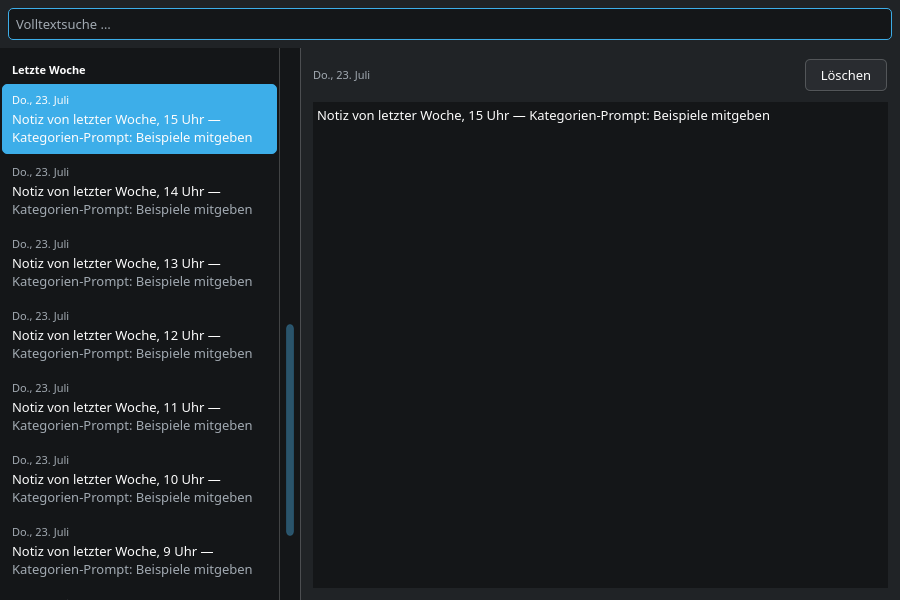
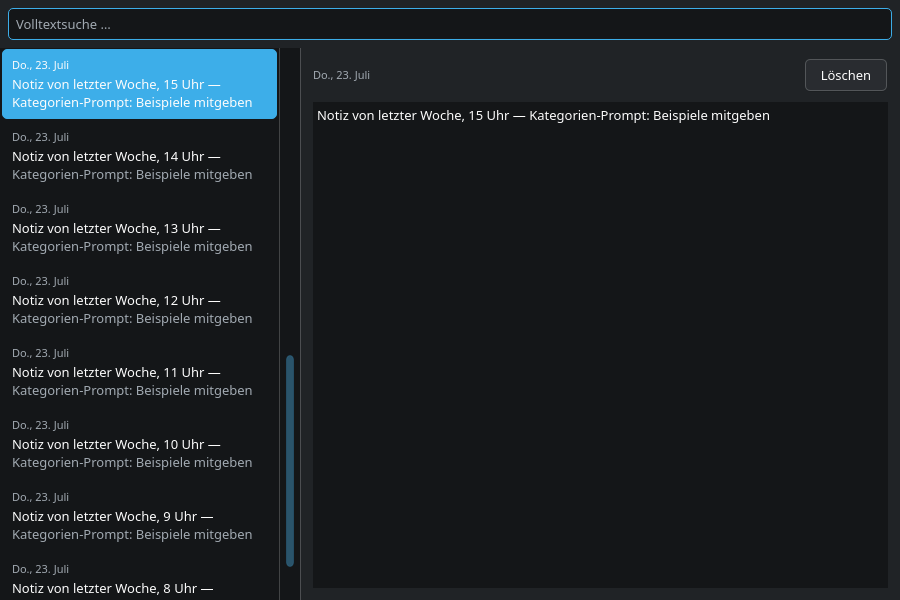
Posteingang: Kopf nur beim Gruppenwechsel holen (#46)
Der Nachbefund des UI-Reviews. Das Vorscrollen griff bei jedem
Auswahlwechsel, nicht nur beim Übergang zwischen Gruppen — obwohl AK 7 und
Wireframe 3b Fall 4 beide „springt die Auswahl über eine Gruppengrenze"
sagen. Wer sich einen Übergang erscrollt hatte und die Pfeiltaste drückte,
dem sprang das Bild um 70 Prozent der Listenhöhe nach oben, entgegen der
Bedienrichtung, und der Übergang war weg.

Jetzt wird verglichen, ob die neue Auswahl in einer anderen Gruppe steht als
die vorige; die vorige liefert currentChanged mit, showNote nimmt sie
entgegen. Verglichen werden die Gruppen selbst, nicht die Zeilennummern
ihrer Köpfe: Löschen und Undo bauen die Zeilen neu auf, und der Vergleich
wäre dann zufällig richtig. Beim ersten Setzen — vorige Auswahl ungültig,
also nach Öffnen oder Neuaufbau — wird weiter vorgescrollt.

Die Sichtbarkeit der Auswahl geht ausdrücklich nicht ein. Sie als Bedingung
zu nehmen sieht nach einer Ersparnis aus und hätte die Heilung von vorhin
wieder gebrochen: Dort stand die Zielzeile bereits vollständig im Bild,
während ihr Kopf 35 px darüber lag — genau der Fall, für den geholt wird.
Ein eigener Prüfsatz hält das jetzt fest, damit die nächste Vereinfachung
nicht wieder wie eine Verbesserung aussieht.

Der Test, der den Übergang prüfte, prüfte in Wahrheit keinen: Er wanderte
innerhalb einer Gruppe von der letzten zur ersten Notiz. Er hat jetzt eine
dritte Gruppe und überquert wirklich eine Grenze.
[…]

Changed region(s): [[0.0, 0.06, 0.3111, 0.99], [0.3111, 0.9, 0.3422, 0.96], [0.3111, 0.54, 0.3422, 0.6]]

diff --git a/tests/librarytest.cpp b/tests/librarytest.cpp
@@ -89,6 +89,9 @@ private Q_SLOTS:
     void bringsTheHeadOfTheNewGroupIntoView();
     void bringsTheHeadAlongForANoteInTheMiddleOfASmallGroup();
     void leavesTheHeadOutsideWhereItCannotFitWithTheSelection();
+    void staysPutWhileTheSelectionMovesWithinItsGroup();
+    void bringsTheHeadAlongEvenWhenTheNoteIsInViewAlready();
+    void bringsTheHeadAlongWhenAVisibleNoteOfAnotherGroupIsClicked();
     void bringsBackTheHeadWhenTheDeletionIsUndone();
     void regroupsWhenTheWindowIsActivated();
     void undoesTheDeletionByKeyboard();
@@ -1027,15 +1030,18 @@ void LibraryTest::bringsTheHeadOfTheNewGroupIntoView()
 {
     QFETCH(QSize, windowSize);
 
-    // Two full groups, so that the boundary lies outside the first screenful
-    // and the list has to be scrolled at all.
+    // Three groups, the middle one holding a single note: entering it from
+    // below puts the selection right under its head, which is what lets this
+    // hold at the flattest window too. The outer groups are full, so the
+    // boundary lies outside the first screenful and the list has to scroll.
     for (int hour = 8; hour < 16; ++hour) {
         storedNote(QStringLiteral("von heute, %1 Uhr").arg(hour),
                    QStringLiteral("2026-07-31T%1:00:00").arg(hour, 2, 10, QLatin1Char('0')));
     }
+    storedNote(QStringLiteral("von gestern"), QStringLiteral("2026-07-30T21:48:00"));
     for (int hour = 8; hour < 16; ++hour) {
-        storedNote(QStringLiteral("von gestern, %1 Uhr").arg(hour),
-                   QStringLiteral("2026-07-30T%1:00:00").arg(hour, 2, 10, QLatin1Char('0')));
+        storedNote(QStringLiteral("von letzter Woche, %1 Uhr").arg(hour),
+                   QStringLiteral("2026-07-23T%1:00:00").arg(hour, 2, 10, QLatin1Char('0')));
     }
 
     LibraryWindow window(m_store.get());
@@ -1045,16 +1051,16 @@ void LibraryTest::bringsTheHeadOfTheNewGroupIntoView()
     QVERIFY(QTest::qWaitForWindowExposed(&window));
 
     QListView *list = listOf(window);
-    QCOMPARE(modelOf(list)->noteCount(), 16);
+    QCOMPARE(modelOf(list)->noteCount(), 17);
     // A list that fits into the window would let this pass without scrolling.
     QVERIFY2(list->verticalScrollBar()->maximum() > 0,
              qPrintable(QStringLiteral("Liste passt ganz ins Bild, der Fall tritt nicht ein")));
 
-    // From the end of the list upwards to the first note of "Gestern". Going
-    // up is what puts the entry against the upper edge — and its head just
-    // outside it, unless the window pulls the head along.
-    list->setCurrentIndex(noteRow(list, 15));
-    for (int step = 0; step < 7; ++step) {
+    // From the end of the list upwards across the boundary into "Gestern".
+    // Going up is what puts the entry against the upper edge — and its head
+    // just outside it, unless the window pulls the head along.
+    list->setCurrentIndex(noteRow(list, 16));
+    for (int step = 0; step < 8; ++step) {
         QTest::keyClick(list, Qt::Key_Up);
     }
 
@@ -1086,6 +1092,163 @@ void LibraryTest::bringsTheHeadOfTheNewGroupIntoView()
     const QRect firstHead = list->visualRect(modelOf(list)->index(0));
     QVERIFY2(!list->viewport()->rect().intersects(firstHead),
              qPrintable(QStringLiteral("Kopf „Heute\" klebt bei y=%1").arg(firstHead.y())));
+}
+
+void LibraryTest::staysPutWhileTheSelectionMovesWithinItsGroup()
+{
+    // AK 7 and wireframe 3b, case 4 both say "springt die Auswahl über eine
+    // Gruppengrenze". Within one group nothing is fetched, however far the
+    // head may have scrolled away: the user rolled the list to where he wanted
+    // it, and one press of an arrow key must not throw that away — least of
+    // all against the direction he is pressing in (UI review of 01.08.2026).
+    for (int hour = 8; hour < 16; ++hour) {
+        storedNote(QStringLiteral("von heute, %1 Uhr").arg(hour),
+                   QStringLiteral("2026-07-31T%1:00:00").arg(hour, 2, 10, QLatin1Char('0')));
+    }
+    for (int hour = 8; hour < 16; ++hour) {
+        storedNote(QStringLiteral("von gestern, %1 Uhr").arg(hour),
+                   QStringLiteral("2026-07-30T%1:00:00").arg(hour, 2, 10, QLatin1Char('0')));
+    }
+
+    LibraryWindow window(m_store.get());
+    window.setReferenceTime(at(QStringLiteral("2026-07-31T16:00:00")));
+    window.resize(900, 600);
+    window.showLibrary();
+    QVERIFY(QTest::qWaitForWindowExposed(&window));
+
+    QListView *list = listOf(window);
+
+    // The selection sits in "Gestern", and the user has rolled the list so
+    // that the entry stands at the top with its head above the upper edge.
+    list->setCurrentIndex(noteRow(list, 9));
+    const QModelIndex head = modelOf(list)->index(noteRow(list, 8).row() - 1);
+    QCOMPARE(head.data(Qt::DisplayRole).toString(), QStringLiteral("Gestern"));
+
+    list->verticalScrollBar()->setValue(noteRow(list, 9).row());
+    QVERIFY2(!list->viewport()->rect().intersects(list->visualRect(head)),
+             qPrintable(QStringLiteral("Kopf bei y=%1 — der Fall verlangt ihn außerhalb")
+                            .arg(list->visualRect(head).y())));
+
+    // The next note down is in the picture already …
+    const QModelIndex target = noteRow(list, 10);
+    QVERIFY(list->viewport()->rect().contains(list->visualRect(target)));
+
+    const int rolledTo = list->verticalScrollBar()->value();
+    QTest::keyClick(list, Qt::Key_Down);
+
+    // … so the list does not move, and the crossing the user had scrolled to
+    // stays where he put it.
+    QCOMPARE(list->currentIndex(), target);
+    QCOMPARE(list->verticalScrollBar()->value(), rolledTo);
+    QVERIFY(!list->viewport()->rect().intersects(list->visualRect(head)));
+}
+
+void LibraryTest::bringsTheHeadAlongEvenWhenTheNoteIsInViewAlready()
+{
+    // The trap this guards against: it looks like a saving to fetch the head
+    // only where the list has to be scrolled anyway — and it would undo the
+    // whole heal. A note stands in full view while its head sits just above
+    // the upper edge, and that is exactly the case the head is fetched for
+    // (PO decision of 01.08.2026, taken back after the case was measured).
+    for (int hour = 8; hour < 16; ++hour) {
+        storedNote(QStringLiteral("von heute, %1 Uhr").arg(hour),
+                   QStringLiteral("2026-07-31T%1:00:00").arg(hour, 2, 10, QLatin1Char('0')));
+    }
+    for (int hour = 9; hour < 12; ++hour) {
+        storedNote(QStringLiteral("von gestern, %1 Uhr").arg(hour),
+                   QStringLiteral("2026-07-30T%1:00:00").arg(hour, 2, 10, QLatin1Char('0')));
+    }
+    for (int hour = 8; hour < 16; ++hour) {
+        storedNote(QStringLiteral("von letzter Woche, %1 Uhr").arg(hour),
+                   QStringLiteral("2026-07-23T%1:00:00").arg(hour, 2, 10, QLatin1Char('0')));
+    }
+
+    LibraryWindow window(m_store.get());
+    window.setReferenceTime(at(QStringLiteral("2026-07-31T16:00:00")));
+    window.resize(900, 600);
+    window.showLibrary();
+    QVERIFY(QTest::qWaitForWindowExposed(&window));
+
+    QListView *list = listOf(window);
+
+    // Selection in "Letzte Woche", then the list rolled so that the last note
+    // of "Gestern" stands in the picture while its head does not.
+    list->setCurrentIndex(noteRow(list, 11));
+    const QModelIndex head = modelOf(list)->index(noteRow(list, 8).row() - 1);
+    QCOMPARE(head.data(Qt::DisplayRole).toString(), QStringLiteral("Gestern"));
+
+    list->verticalScrollBar()->setValue(noteRow(list, 8).row());
+    QVERIFY2(!list->viewport()->rect().intersects(list->visualRect(head)),
+             qPrintable(QStringLiteral("Kopf bei y=%1 — der Fall verlangt ihn außerhalb")
+                            .arg(list->visualRect(head).y())));
+
+    // The row the selection is about to reach is already in the picture, whole.
+    const QModelIndex target = noteRow(list, 10);
+    QVERIFY2(list->viewport()->rect().contains(list->visualRect(target)),
+             qPrintable(QStringLiteral("Zielzeile y=%1 — der Fall verlangt sie ganz im Bild")
+                            .arg(list->visualRect(target).y())));
+
+    QTest::keyClick(list, Qt::Key_Up);
+
+    // It crossed a group boundary, so the head is in the picture afterwards —
+    // never mind that nothing had to be scrolled for the note itself.
+    QCOMPARE(list->currentIndex(), target);
+    QVERIFY2(list->viewport()->rect().contains(list->visualRect(head)),
+             qPrintable(QStringLiteral("Kopf bei y=%1, Viewport %2 px hoch")
+                            .arg(list->visualRect(head).y())
+                            .arg(list->viewport()->height())));
+    QVERIFY(list->viewport()->rect().contains(list->visualRect(target)));
+}
+
+void LibraryTest::bringsTheHeadAlongWhenAVisibleNoteOfAnotherGroupIsClicked()
+{
+    // The mouse takes the same road, and it is worth writing down because the
+    // trade was weighed twice: clicking a visible note of another group moves
+    // the list to fetch that group's head. The user loses the place he was
+    // looking at and gains the heading of what he picked — a trade rather than
+    // a loss, since the note he pointed at stays selected and in view (PO
+    // decision of 01.08.2026). Should it grate in daily use, this is the test
+    // that says where the decision was made.
+    for (int hour = 8; hour < 16; ++hour) {
+        storedNote(QStringLiteral("von heute, %1 Uhr").arg(hour),
+                   QStringLiteral("2026-07-31T%1:00:00").arg(hour, 2, 10, QLatin1Char('0')));
+    }
+    for (int hour = 9; hour < 12; ++hour) {
+        storedNote(QStringLiteral("von gestern, %1 Uhr").arg(hour),
+                   QStringLiteral("2026-07-30T%1:00:00").arg(hour, 2, 10, QLatin1Char('0')));
+    }
+    // A third group below, so the list can be rolled far enough for the head
+    // of "Gestern" to leave the picture at all.
+    for (int hour = 8; hour < 16; ++hour) {
+        storedNote(QStringLiteral("von letzter Woche, %1 Uhr").arg(hour),
+                   QStringLiteral("2026-07-23T%1:00:00").arg(hour, 2, 10, QLatin1Char('0')));
+    }
+
+    LibraryWindow window(m_store.get());
+    window.setReferenceTime(at(QStringLiteral("2026-07-31T16:00:00")));
+    window.resize(900, 600);
+    window.showLibrary();
+    QVERIFY(QTest::qWaitForWindowExposed(&window));
+
+    QListView *list = listOf(window);
+
+    list->setCurrentIndex(noteRow(list, 2));
+    const QModelIndex head = modelOf(list)->index(noteRow(list, 8).row() - 1);
+    QCOMPARE(head.data(Qt::DisplayRole).toString(), QStringLiteral("Gestern"));
+
+    list->verticalScrollBar()->setValue(noteRow(list, 8).row());
+    QVERIFY(!list->viewport()->rect().intersects(list->visualRect(head)));
+
+    const QModelIndex target = noteRow(list, 10);
+    QVERIFY(list->viewport()->rect().contains(list->visualRect(target)));
+
+    QTest::mouseClick(list->viewport(), Qt::LeftButton, Qt::NoModifier, list->visualRect(target).center());
+
+    QCOMPARE(list->currentIndex(), target);
+    QVERIFY2(list->viewport()->rect().contains(list->visualRect(head)),
+             qPrintable(QStringLiteral("Kopf bei y=%1").arg(list->visualRect(head).y())));
+    // What the user pointed at stays selected and in the picture, whole.
+    QVERIFY(list->viewport()->rect().contains(list->visualRect(target)));
 }
 
 void LibraryTest::bringsTheHeadAlongForANoteInTheMiddleOfASmallGroup()

diff --git a/src/ui/librarywindow.cpp b/src/ui/librarywindow.cpp
@@ -403,6 +403,23 @@ void LibraryWindow::updatePages()
     }
 }
 
+std::optional<library::NoteGroup> LibraryWindow::groupOf(const QModelIndex &row) const
+{
+    // Asked of the note, not of the row its head sits in: deleting and undoing
+    // rebuild the rows, and a group told apart by row number would compare
+    // right or wrong by accident.
+    if (!row.isValid()) {
+        return std::nullopt;
+    }
+
+    const Note note = m_model->noteAt(row.row());
+    if (note.id < 0) {
+        return std::nullopt;
+    }
+
+    return library::noteGroup(note.createdAt, referenceTime(), QLocale());
+}
+
 QModelIndex LibraryWindow::groupHeadOf(const QModelIndex &note) const
 {
     // The head of a group is the next head row above the note — not
@@ -418,22 +435,34 @@ QModelIndex LibraryWindow::groupHeadOf(const QModelIndex &note) const
     return {};
 }
 
-void LibraryWindow::showNote(const QModelIndex &index)
+void LibraryWindow::showNote(const QModelIndex &index, const QModelIndex &previous)
 {
     m_deleteAction->setEnabled(index.isValid());
 
     if (index.isValid()) {
-        // The selected note is not to stand without its heading: the head of
-        // its group comes into view first, then the note itself. Scrolling to
-        // the note last is what keeps it whole rather than cut off at an edge
-        // (wireframe 3b, case 4).
+        // Three conditions have to hold before the list is moved for a head,
+        // and each of them keeps out a way of moving it against the user.
         //
-        // Only where both fit into the list at once, though. In a group taller
-        // than the window the head cannot be shown without pushing the
-        // selection out — and a single key press that scrolls away what the
-        // user was looking at is worse than a missing heading.
+        // It crosses a group boundary — that is what AK 7 and wireframe 3b,
+        // case 4 ask for, and what the first selection after opening or
+        // rebuilding counts as, its predecessor being none. Moving within a
+        // group fetches nothing: the user has rolled the list to where he
+        // wants it, and one arrow key must not throw that away, least of all
+        // against the direction he presses in.
+        //
+        // Whether the entry is in the picture already does not enter into it.
+        // A note can stand in full view while its head sits just above the
+        // upper edge — that is the very case this fetches the head for (PO
+        // decision of 01.08.2026, after the case was measured).
+        //
+        // And both fit into the list at once. In a group taller than the
+        // window the head cannot be shown without pushing the selection out.
         const QModelIndex head = groupHeadOf(index);
-        if (head.isValid()) {
+        const std::optional<library::NoteGroup> group = groupOf(index);
+        const std::optional<library::NoteGroup> previousGroup = groupOf(previous);
+        const bool crossesAGroupBoundary = !previousGroup.has_value() || previousGroup != group;
+
+        if (head.isValid() && crossesAGroupBoundary) {
             const QRect heading = m_list->visualRect(head);
             const QRect selected = m_list->visualRect(index);
             if (selected.bottom() - heading.top() <= m_list->viewport()->height()) {

diff --git a/tests/libraryshots.cpp b/tests/libraryshots.cpp
@@ -6,6 +6,7 @@
 #include <QDir>
 #include <QKeyEvent>
 #include <QListView>
+#include <QScrollBar>
 #include <QTemporaryDir>
 #include <QTest>
 
@@ -273,6 +274,46 @@ int main(int argc, char **argv)
         QTest::qWait(100);
         walkUp(list, 9);
         shoot(window, directory, QStringLiteral("08-heilung-kopf-mitten-in-kleiner-gruppe.png"));
+    }
+
+    // 9 — the quiet picture within a group (UI review of 01.08.2026). The user
+    // rolled the list to this crossing; the arrow key has just moved the
+    // selection one entry down inside "Gestern", and the crossing has stayed
+    // where he put it. A picture can only show the state, not the jump that
+    // did not happen — that one is held by the roll value in librarytest.
+    {
+        const QTemporaryDir dir;
+        Store store(dir.filePath(QStringLiteral("denkzettel.db")));
+        store.open();
+        for (int hour = 8; hour < 16; ++hour) {
+            addNote(store,
+                    QStringLiteral("Von heute, %1 Uhr — Tray-Icon im dunklen Theme testen").arg(hour),
+                    QStringLiteral("2026-07-31T%1:00:00").arg(hour, 2, 10, QLatin1Char('0')));
+        }
+        for (int hour = 8; hour < 16; ++hour) {
+            addNote(store,
+                    QStringLiteral("Von gestern, %1 Uhr — Whisper-Warteschlange bei Suspend prüfen").arg(hour),
+                    QStringLiteral("2026-07-30T%1:00:00").arg(hour, 2, 10, QLatin1Char('0')));
+        }
+
+        LibraryWindow window(&store);
+        window.setReferenceTime(friday());
+        window.resize(900, 600);
+        window.showLibrary();
+        QTest::qWait(200);
+
+        QListView *list = listOf(window);
+        // Rows: head "Heute", eight notes, head "Gestern", eight notes. Rolled
+        // to the fourth note of "Heute", the crossing sits in the middle of
+        // the picture; the selection goes to the second note below it.
+        list->setCurrentIndex(list->model()->index(12, 0));
+        QTest::qWait(100);
+        list->verticalScrollBar()->setValue(4);
+        QTest::qWait(100);
+
+        QKeyEvent down(QEvent::KeyPress, Qt::Key_Down, Qt::NoModifier);
+        QCoreApplication::sendEvent(list, &down);
+        shoot(window, directory, QStringLiteral("09-ruhiges-bild-innerhalb-der-gruppe.png"));
     }
 
     return 0;

diff --git a/src/ui/librarywindow.h b/src/ui/librarywindow.h
@@ -1,9 +1,12 @@
 #pragma once
 
 #include "store/note.h"
+#include "ui/timestampformat.h"
 
 #include <QModelIndex>
 #include <QWidget>
+
+#include <optional>
 
 class NoteListModel;
 class PendingDeletion;
@@ -84,7 +87,23 @@ private:
     /** The head row of the group `note` belongs to; invalid if there is none. */
     QModelIndex groupHeadOf(const QModelIndex &note) const;
 
-    void showNote(const QModelIndex &index);
+    /**
+     * The group the note in `row` belongs to; nothing for a head row, an
+     * invalid row or one that holds no note any more.
+     *
+     * Told from the note rather than from the row number of its head: deleting
+     * and undoing rebuild the rows, and numbers shift as they do.
+     */
+    std::optional<library::NoteGroup> groupOf(const QModelIndex &row) const;
+
+    /**
+     * Shows the selected note and, when the selection has crossed into
+     * another group, brings that group's head into view (AK 7).
+     *
+     * `previous` comes from QItemSelectionModel::currentChanged; an invalid
+     * one means the list has just been opened or rebuilt.
+     */
+    void showNote(const QModelIndex &index, const QModelIndex &previous = QModelIndex());
     void deleteCurrentNote();
     void undoDeletion();
 
